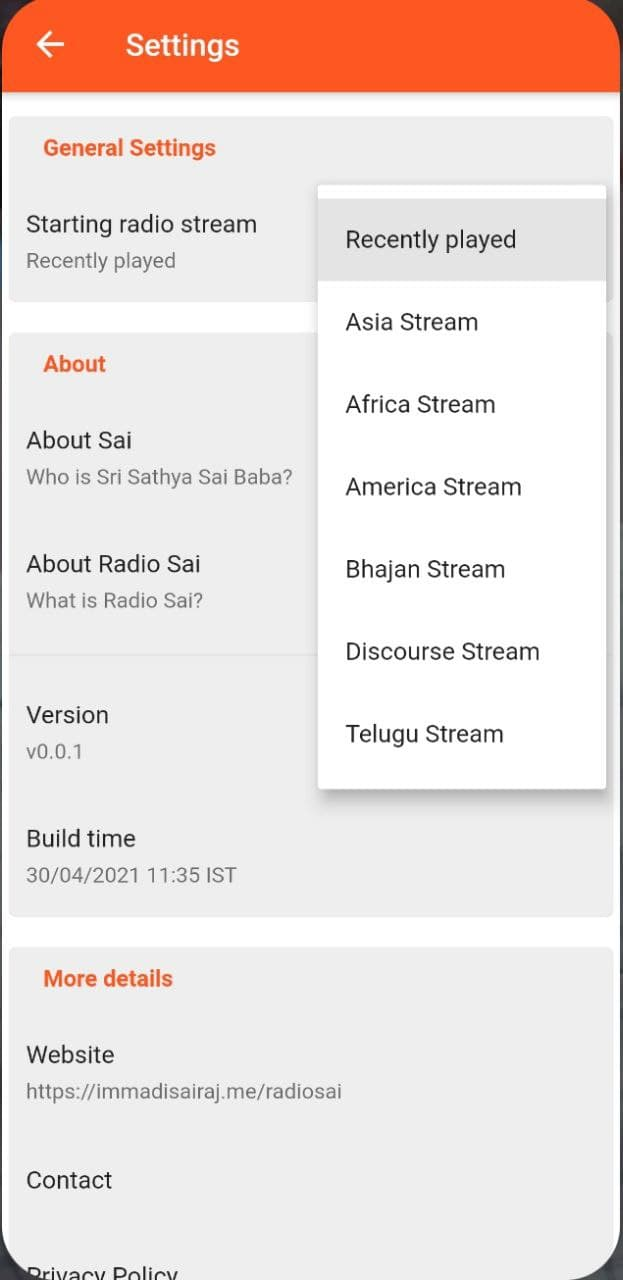
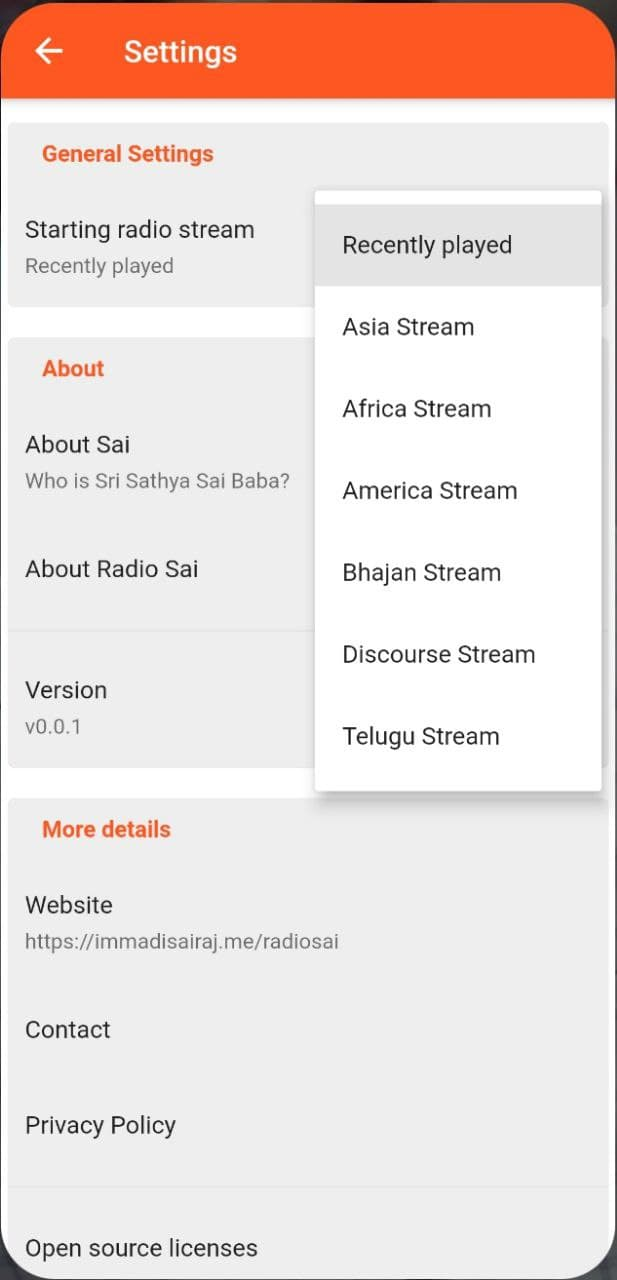
handle radio stream change when playing and more
- update screenshots
- add radio player flow in readme
- remove build time in settings
- change appbar theme brightness
- refactor code

diff --git a/lib/screens/radio/radio_player.dart b/lib/screens/radio/radio_player.dart
@@ -87,7 +87,8 @@ class _RadioPlayer extends State<RadioPlayer>
     // handle the pause and play button
     _handlePlayingState(widget.isPlaying);
     // handle the stream change when it is changed
-    _handleRadioStreamChange(widget.radioStreamIndex);
+    _handleRadioStreamChange(
+        widget.radioStreamIndex, widget.isPlaying, widget.radioLoadingBloc);
     double height = MediaQuery.of(context).size.height;
     double width = MediaQuery.of(context).size.width;
     bool isBigScreen = (height * 0.1 >= 50); // 3/4 screen
@@ -357,8 +358,8 @@ class _RadioPlayer extends State<RadioPlayer>
     AudioService.play();
   }
 
-  void stopRadioService() {
-    AudioService.stop();
+  Future<void> stopRadioService() async {
+    await AudioService.stop();
   }
 
   // handle the player when pause/play button is pressed
@@ -404,11 +405,22 @@ class _RadioPlayer extends State<RadioPlayer>
   }
 
   // handle the player when radio stream changes
-  void _handleRadioStreamChange(int radioStreamIndex) {
+  void _handleRadioStreamChange(int radioStreamIndex, bool isPlaying,
+      RadioLoadingBloc loadingStreamBloc) async {
     // if the the index is changed, stop the radio service
     if (_tempRadioStreamIndex != radioStreamIndex) {
       widget.radioLoadingBloc.changeLoadingState.add(false);
-      stopRadioService();
+      // load and play the new stream when the user is playing
+      // stop and play the stream
+      if (isPlaying) {
+        await stopRadioService();
+        loadingStreamBloc.changeLoadingState.add(true);
+        initRadioService(radioStreamIndex);
+      } else {
+        // if the index is changed when user is not playing
+        // then, stop the player
+        await stopRadioService();
+      }
     }
   }
 }

diff --git a/lib/screens/settings/settings.dart b/lib/screens/settings/settings.dart
@@ -1,7 +1,6 @@
 import 'package:flutter/cupertino.dart';
 import 'package:flutter/material.dart';
 import 'package:package_info/package_info.dart';
-import 'package:radiosai/constants/constants.dart';
 import 'package:radiosai/screens/settings/starting_radio_stream.dart';
 import 'package:radiosai/widgets/browser.dart';
 import 'package:radiosai/widgets/settings/settings_section.dart';
@@ -46,7 +45,6 @@ class _Settings extends State<Settings> {
     return Scaffold(
       appBar: AppBar(
         title: Text('Settings'),
-        brightness: Brightness.dark,
       ),
       body: Container(
         color: Colors.white,
@@ -98,7 +96,6 @@ class _Settings extends State<Settings> {
           ListTile(
             contentPadding: _contentPadding,
             title: Text('About Radio Sai'),
-            subtitle: Text('What is Radio Sai?'),
             onTap: () {
               Browser.launchURL(context, 'https://www.radiosai.org');
             },
@@ -108,13 +105,6 @@ class _Settings extends State<Settings> {
             contentPadding: _contentPadding,
             title: Text('Version'),
             subtitle: Text('v${_packageInfo.version}'),
-            onTap: () {},
-          ),
-          ListTile(
-            contentPadding: _contentPadding,
-            title: Text('Build time'),
-            // get from constants
-            subtitle: Text(MyConstants.of(context).buldTime),
             onTap: () {},
           ),
         ],

diff --git a/lib/audio_service/radio_player_task.dart b/lib/audio_service/radio_player_task.dart
@@ -49,8 +49,7 @@ class RadioPlayerTask extends BackgroundAudioTask {
     // start playing before loading so that we can stop the player before itself
     _player.play();
     // setting the player source and when loads, it automatically plays
-    await _player
-        .setAudioSource(AudioSource.uri(Uri.parse(params['audioSource'])));
+    await _player.setAudioSource(AudioSource.uri(Uri.parse(mediaItem.id)));
     return super.onStart(params);
   }
 

diff --git a/lib/constants/constants.dart b/lib/constants/constants.dart
@@ -6,9 +6,6 @@ class MyConstants extends InheritedWidget {
 
   const MyConstants({Widget child, Key key}) : super(key: key, child: child);
 
-  // TODO: change the build time after every build or get a way
-  final String buldTime = '01/05/2021 14:26 IST';
-
   // The list of radio sai stream sources
   final List<String> radioStreamLink = const [
     'http://stream.radiosai.net:8002',

diff --git a/lib/main.dart b/lib/main.dart
@@ -50,6 +50,9 @@ class MyApp extends StatelessWidget {
         debugShowCheckedModeBanner: false,
         theme: ThemeData(
           primarySwatch: Colors.deepOrange,
+          appBarTheme: AppBarTheme(
+            brightness: Brightness.dark,
+          ),
         ),
         home: AudioServiceWidget(child: Home()),
       ),

diff --git a/lib/screens/sai_inspires/sai_inspires.dart b/lib/screens/sai_inspires/sai_inspires.dart
@@ -49,7 +49,6 @@ class _SaiInspires extends State<SaiInspires> {
     return Scaffold(
       appBar: AppBar(
         title: Text('Sai Inspires'),
-        brightness: Brightness.dark,
         actions: <Widget>[
           IconButton(
             icon: Icon(Icons.copy_outlined),

diff --git a/README.md b/README.md
@@ -28,6 +28,8 @@ __Schedule:__ Look at the radio schedule of different streams from within the ap
 
 __Sai Inspires:__ Thought of the day by Sai Inspires is present inside the app. One can read it at any text size they want by zooming in.
 
+__Split Screen:__ The app is suitable for split screen. Operate the app while doing another work in different screen.
+
 __Free without ads:__ The app is free for all and will remain the same further. No ads are shown in the app. This is thanks to Radio Sai Global Harmony for providing the content without any charge. Like the Sai Organization, we believe in selfless service and do not expect anything in return.
 
 __Open Source:__ We believe that there is nothing to hide and like you to experience the bliss of Swamy. So, the source code of the app is open-source and will remain the same in future.
@@ -43,9 +45,20 @@ _*I cannot guarantee any of the below. But, will try my best to include such fea
 - Add android auto support
 - Add google chrome cast support
 
+## Radio Player Flow
+
+```
+Stop State -> Change Radio Stream (user action) -> Changes Radio Stream -> Play State
+Play State -> Change Radio Stream (user action) -> Stop State -> Changes Radio Stream -> Play State
+Play State -> Pause in app screen (user action) -> Stop State
+
+Play State -> Pause in notification (user action) -> Pause State
+Play State -> Stop in notification (user action) -> Stop State
+```
+
 ## Motivation
 
-I like to listen to various bhajans and which made me fond of radio sai very much. I've installed the app and kept listening to the radio that gave me peace. I felt the application UI/UX was not up to the mark. The audio stops in between and doesn't handle audio when I receive a call or play another media. That was the start of the idea to build an app that solves these problems. I started to collect resources from where the radio is broadcasted and finally reached the point to have a public release of the app. I referred to the radio sai app and its functionality while building this app.
+I like to listen to various bhajans which made me fond of radio sai. I've installed the app and kept listening to the radio that gave me peace. I felt the application UI/UX was not up to the mark. The audio stops in between and doesn't handle audio when I receive a call or play another media. That was the start of the idea to build an app that solves these problems. I started to collect resources from where the radio is broadcasted and finally reached the point to have a public release of the app. I referred to the radio sai app and its functionality while building this app.
 
 >I feel this app solves the problems that I (and many others) face and would like to share this with all. It's one's choice to use whichever app is comfortable
 
